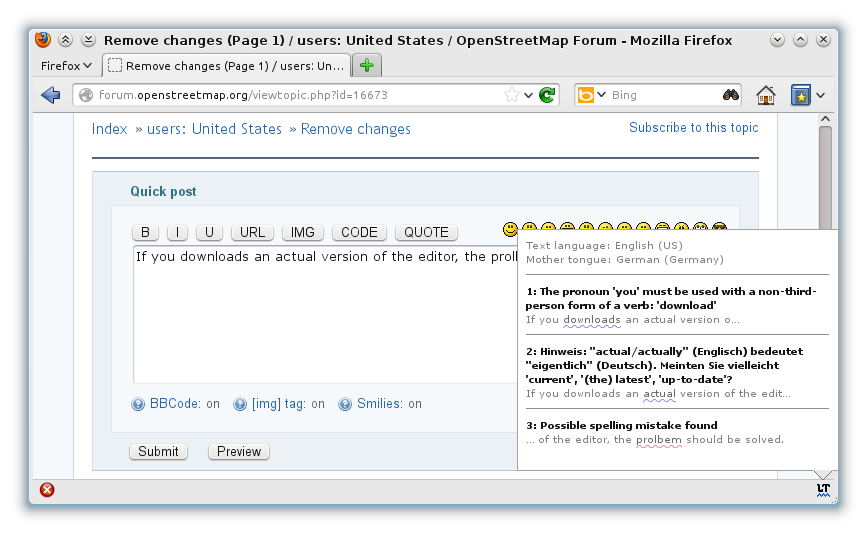
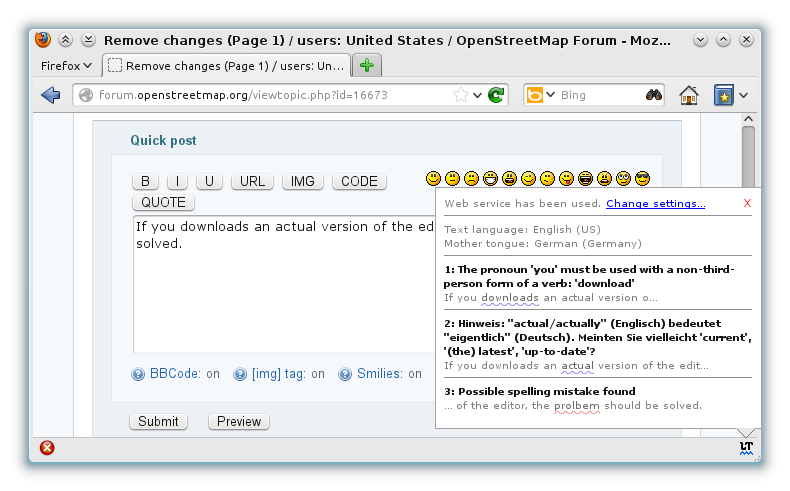
[extension] screenshots updated

diff --git a/firefox/lib/main.js b/firefox/lib/main.js
@@ -143,7 +143,8 @@ var panel=require("panel").Panel({
 	contentScriptFile: self.data.url("panel.js"),
 	onHide: function () {
 		panel.port.emit("setText", PLEASEWAITWHILECHECKING);
-	}
+	},
+	width: 325
 });
 
 panel.port.emit("setText", PLEASEWAITWHILECHECKING);
